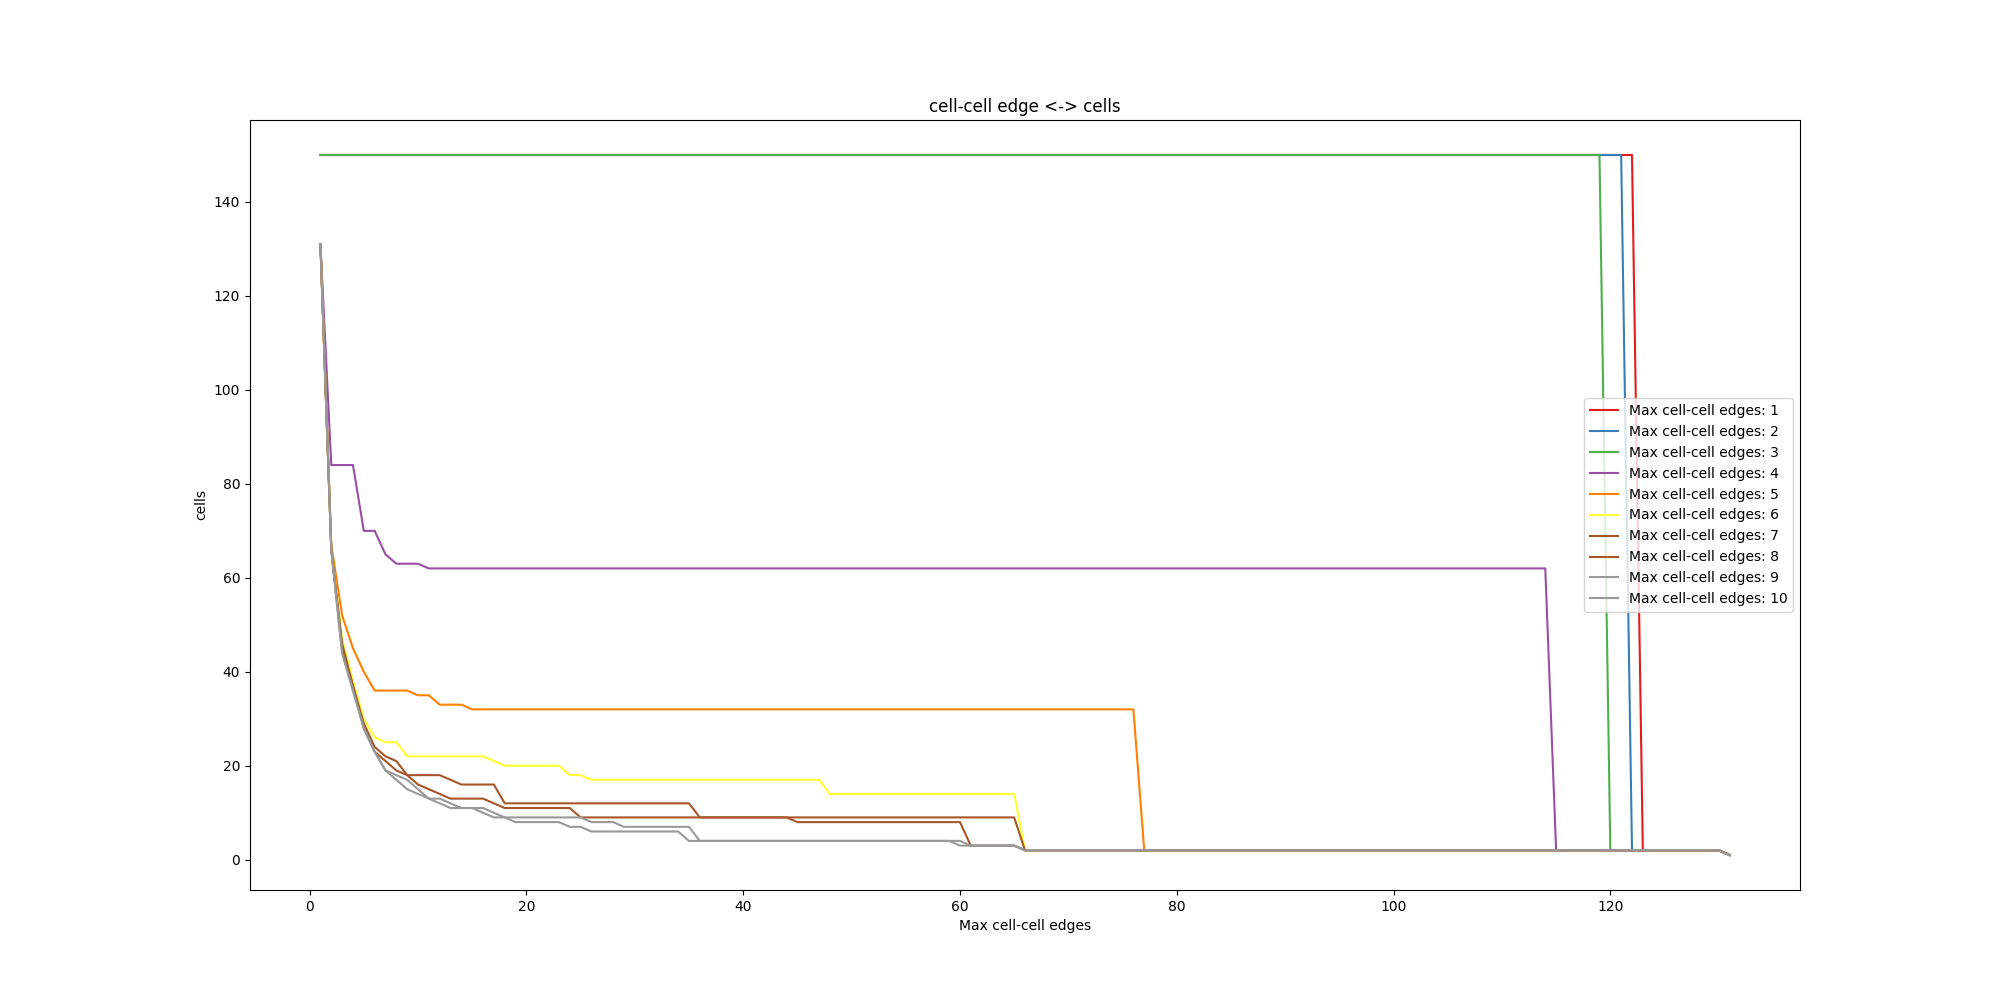
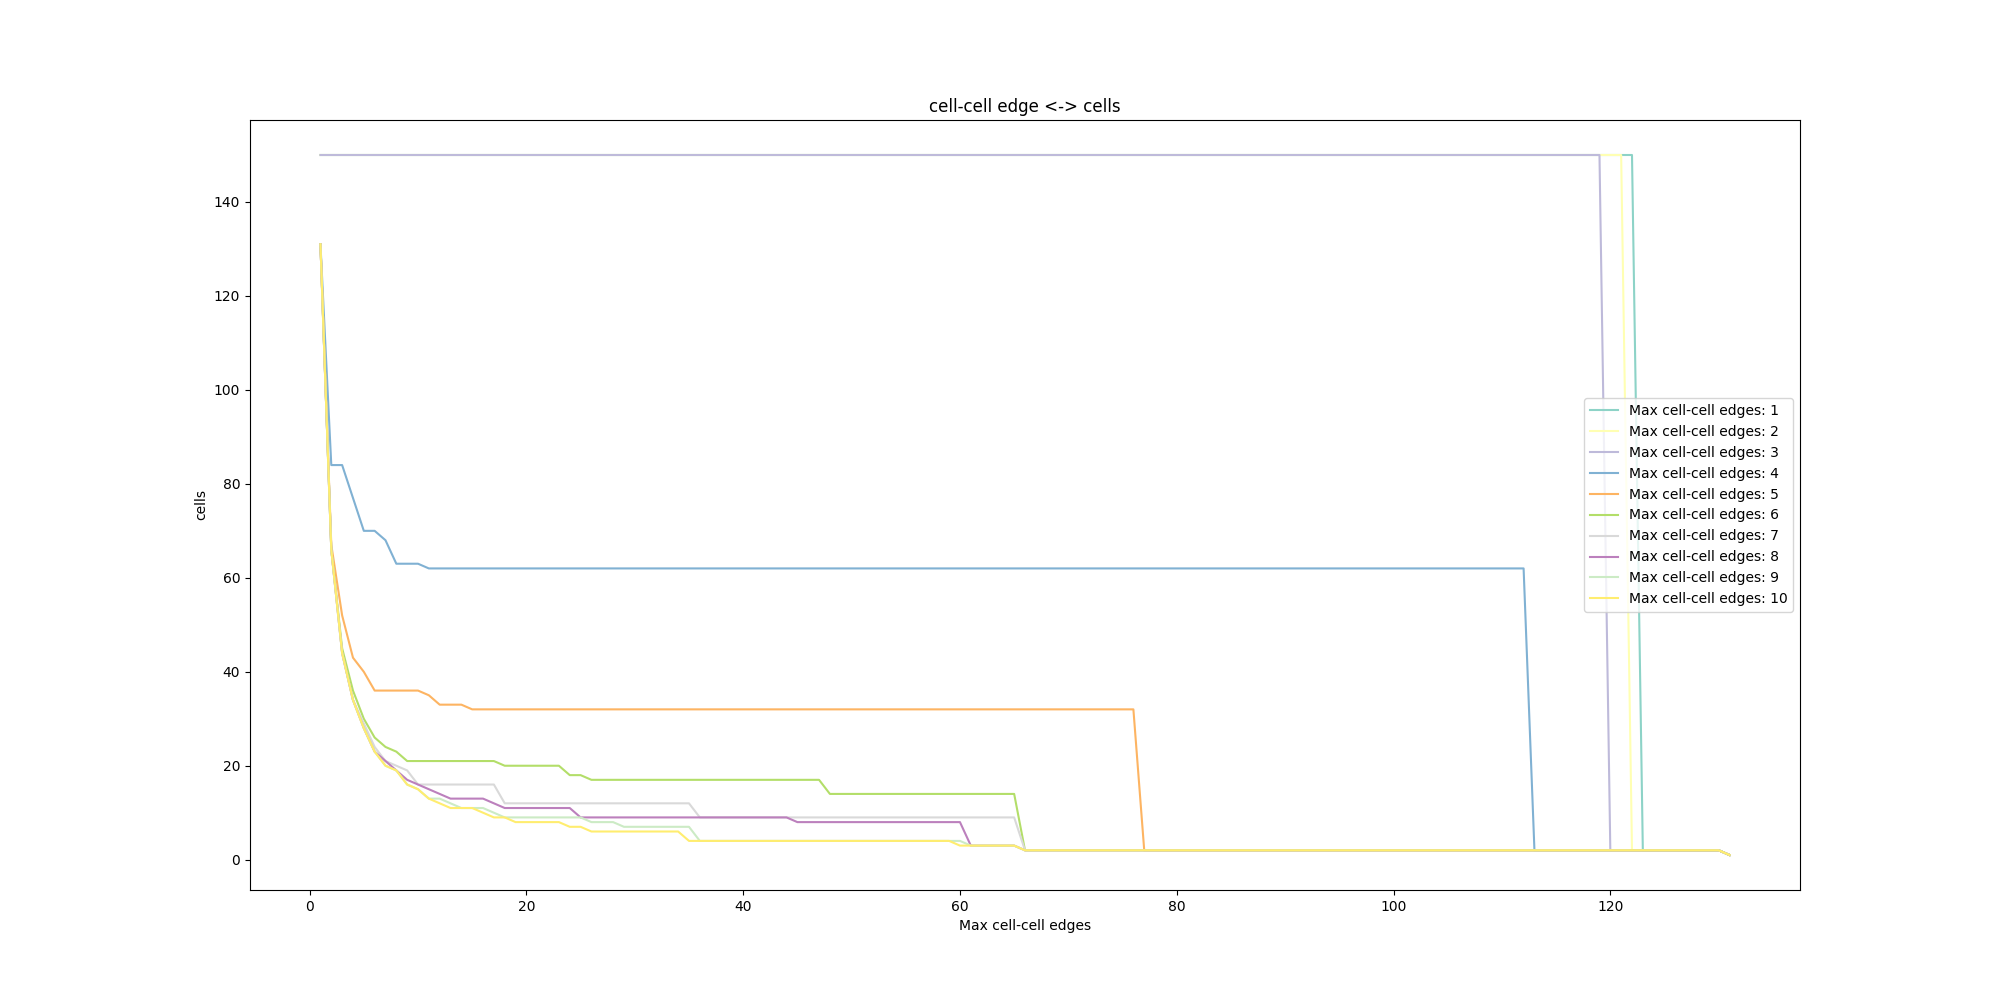
color assignment update

diff --git a/algorithm/plot_max_gates_cells.py b/algorithm/plot_max_gates_cells.py
@@ -41,7 +41,7 @@ plt.figure(1)
 plt.figure(figsize=(20,10))
 # Plotting the graph: color means gate number, x means max cell-cell edge
 n = len(transposed_y)
-colors = plt.cm.Set1(np.linspace(0, 1, n))
+colors = plt.cm.Set3(np.linspace(0, 1, n))
 for i in range(len(transposed_y)):
 
     plt.plot(range(1,132), transposed_y[i], color=colors[i], label=f'Max cell-cell edges: {i+1}')
